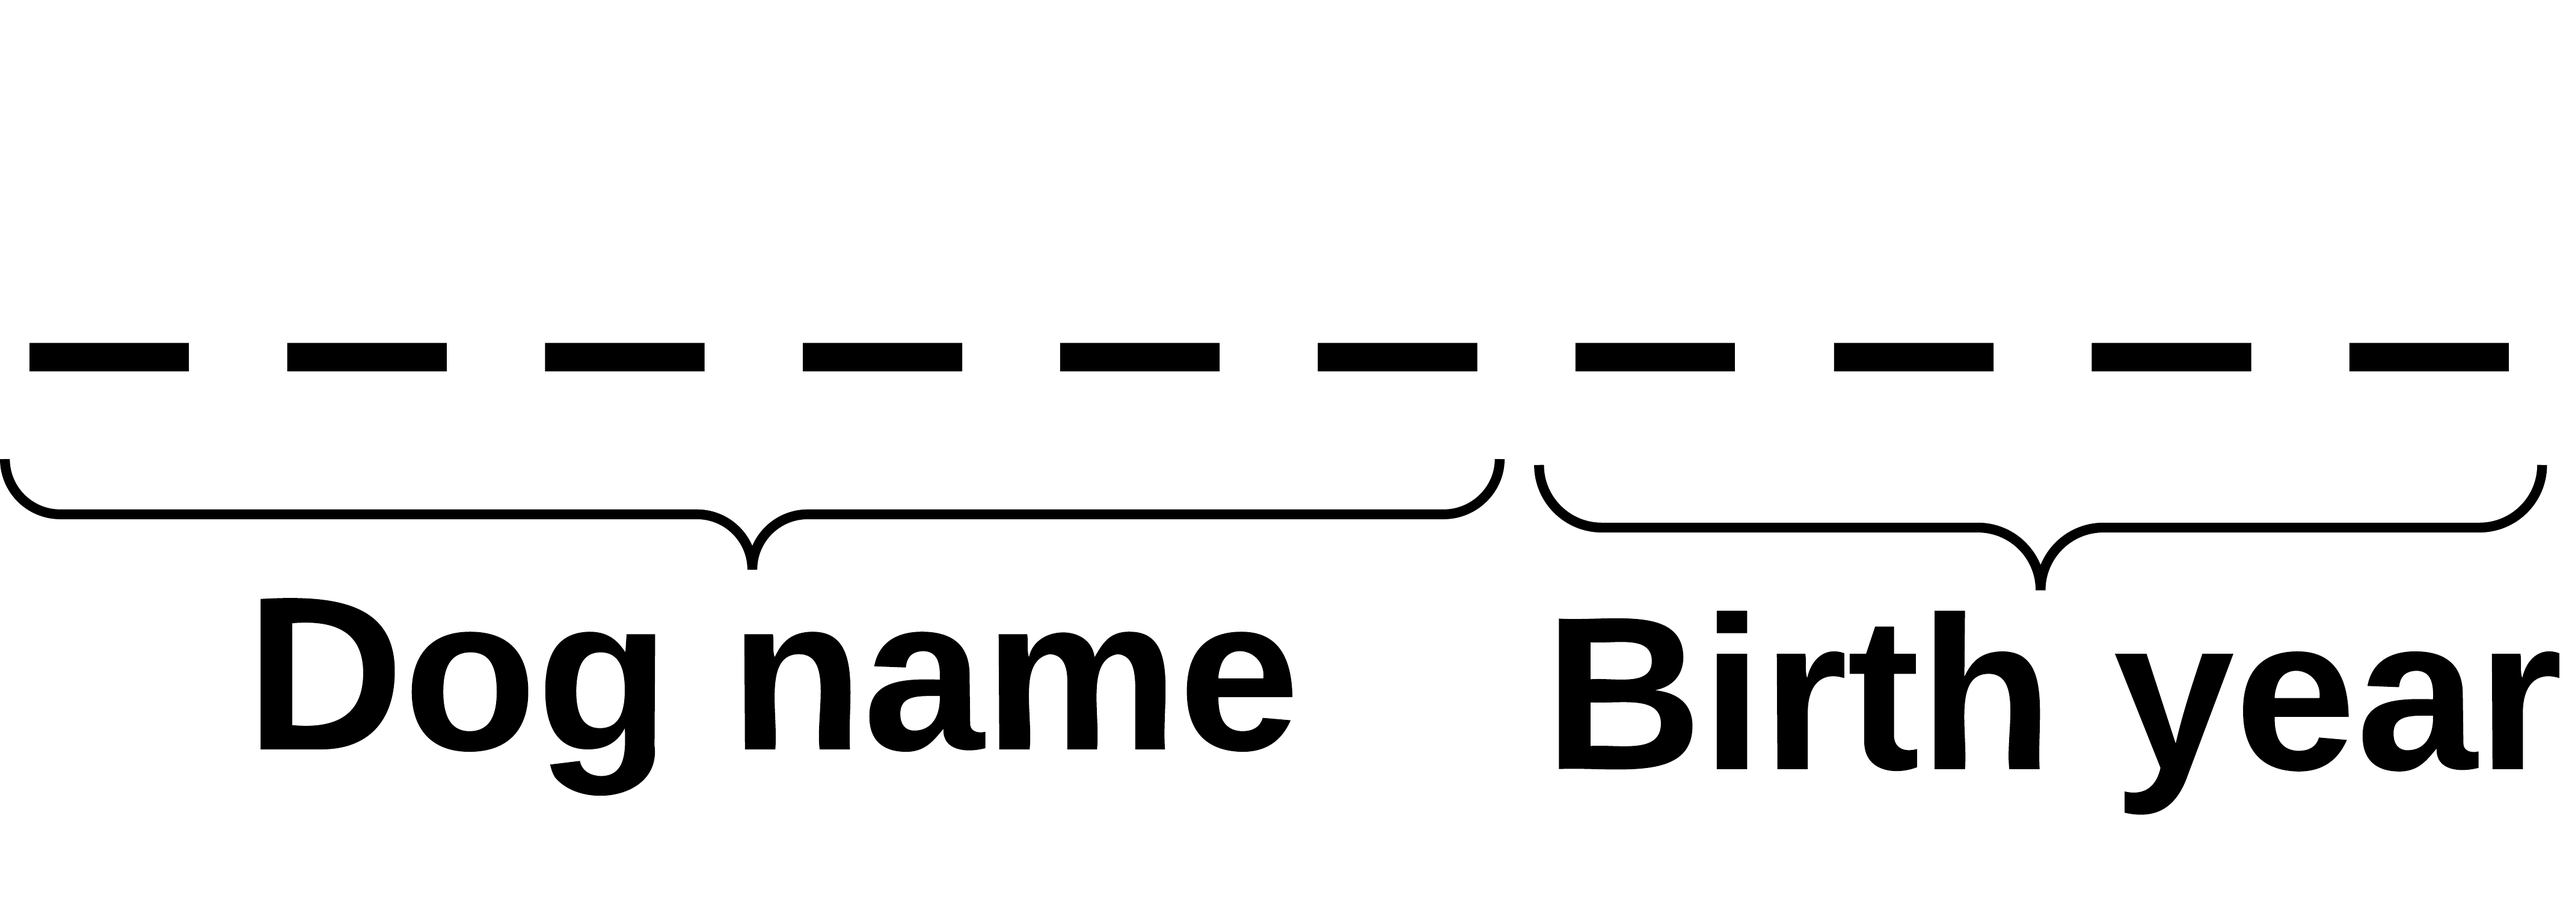
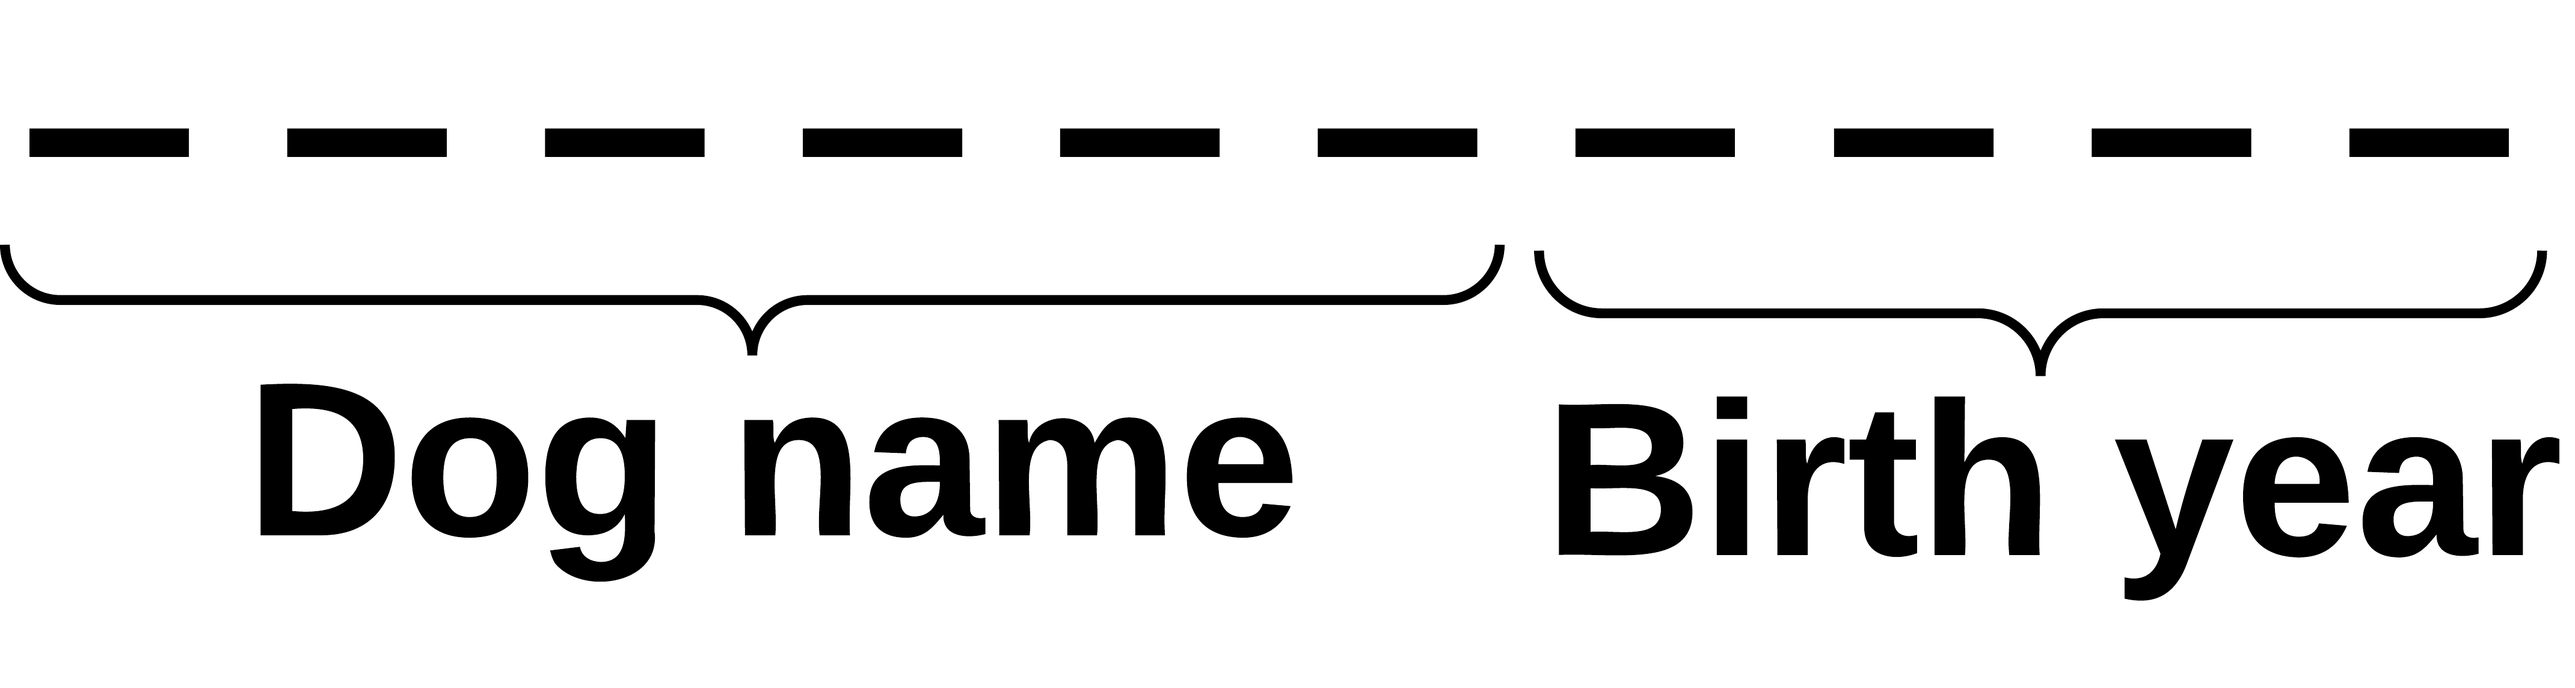
challenge 4 broooooo

diff --git a/templates/challenge4.html b/templates/challenge4.html
@@ -39,8 +39,8 @@
             padding: 24px;
             border-radius: 15px;
             box-shadow: 0 0 30px rgba(0, 0, 0, 0.1);
-            width: min(420px, 90vw);
-            max-width: 420px;
+            width: min(360px, 90vw);
+            max-width: 360px;
             box-sizing: border-box;
             margin-bottom: 130px;
         }
@@ -266,14 +266,14 @@
             top: 100px;
             background-color: #000000;
             font-family: "Raleway", sans-serif;
-            width: 500px;
+            width: 450px;
             padding:20px
         }
 
         #flag {
             position: fixed;
             left: 217px;
-            bottom: 39px;
+            bottom: 18px;
             width: 190px;
             padding: 10px 12px;
             font-size: 20px;
@@ -319,7 +319,7 @@
         }
 
         #instagram {
-            width: 500px;
+            width: 450px;
         }
 
         .login {
@@ -334,7 +334,7 @@
         @media screen and (max-width: 650px) {
             .login {
                 width: min(320px, 90vw);
-                top: calc(100px + 4rem);
+                top: calc(10px + 4rem);
                 padding: 10px;
                 transform: translateX(-50%);
             }

diff --git a/templates/challenge1.html b/templates/challenge1.html
@@ -265,7 +265,7 @@
         #flag {
             position: fixed;
             left: 217px;
-            bottom: 39px;
+            bottom: 38px;
             width: 190px;
             padding: 10px 12px;
             font-size: 20px;
